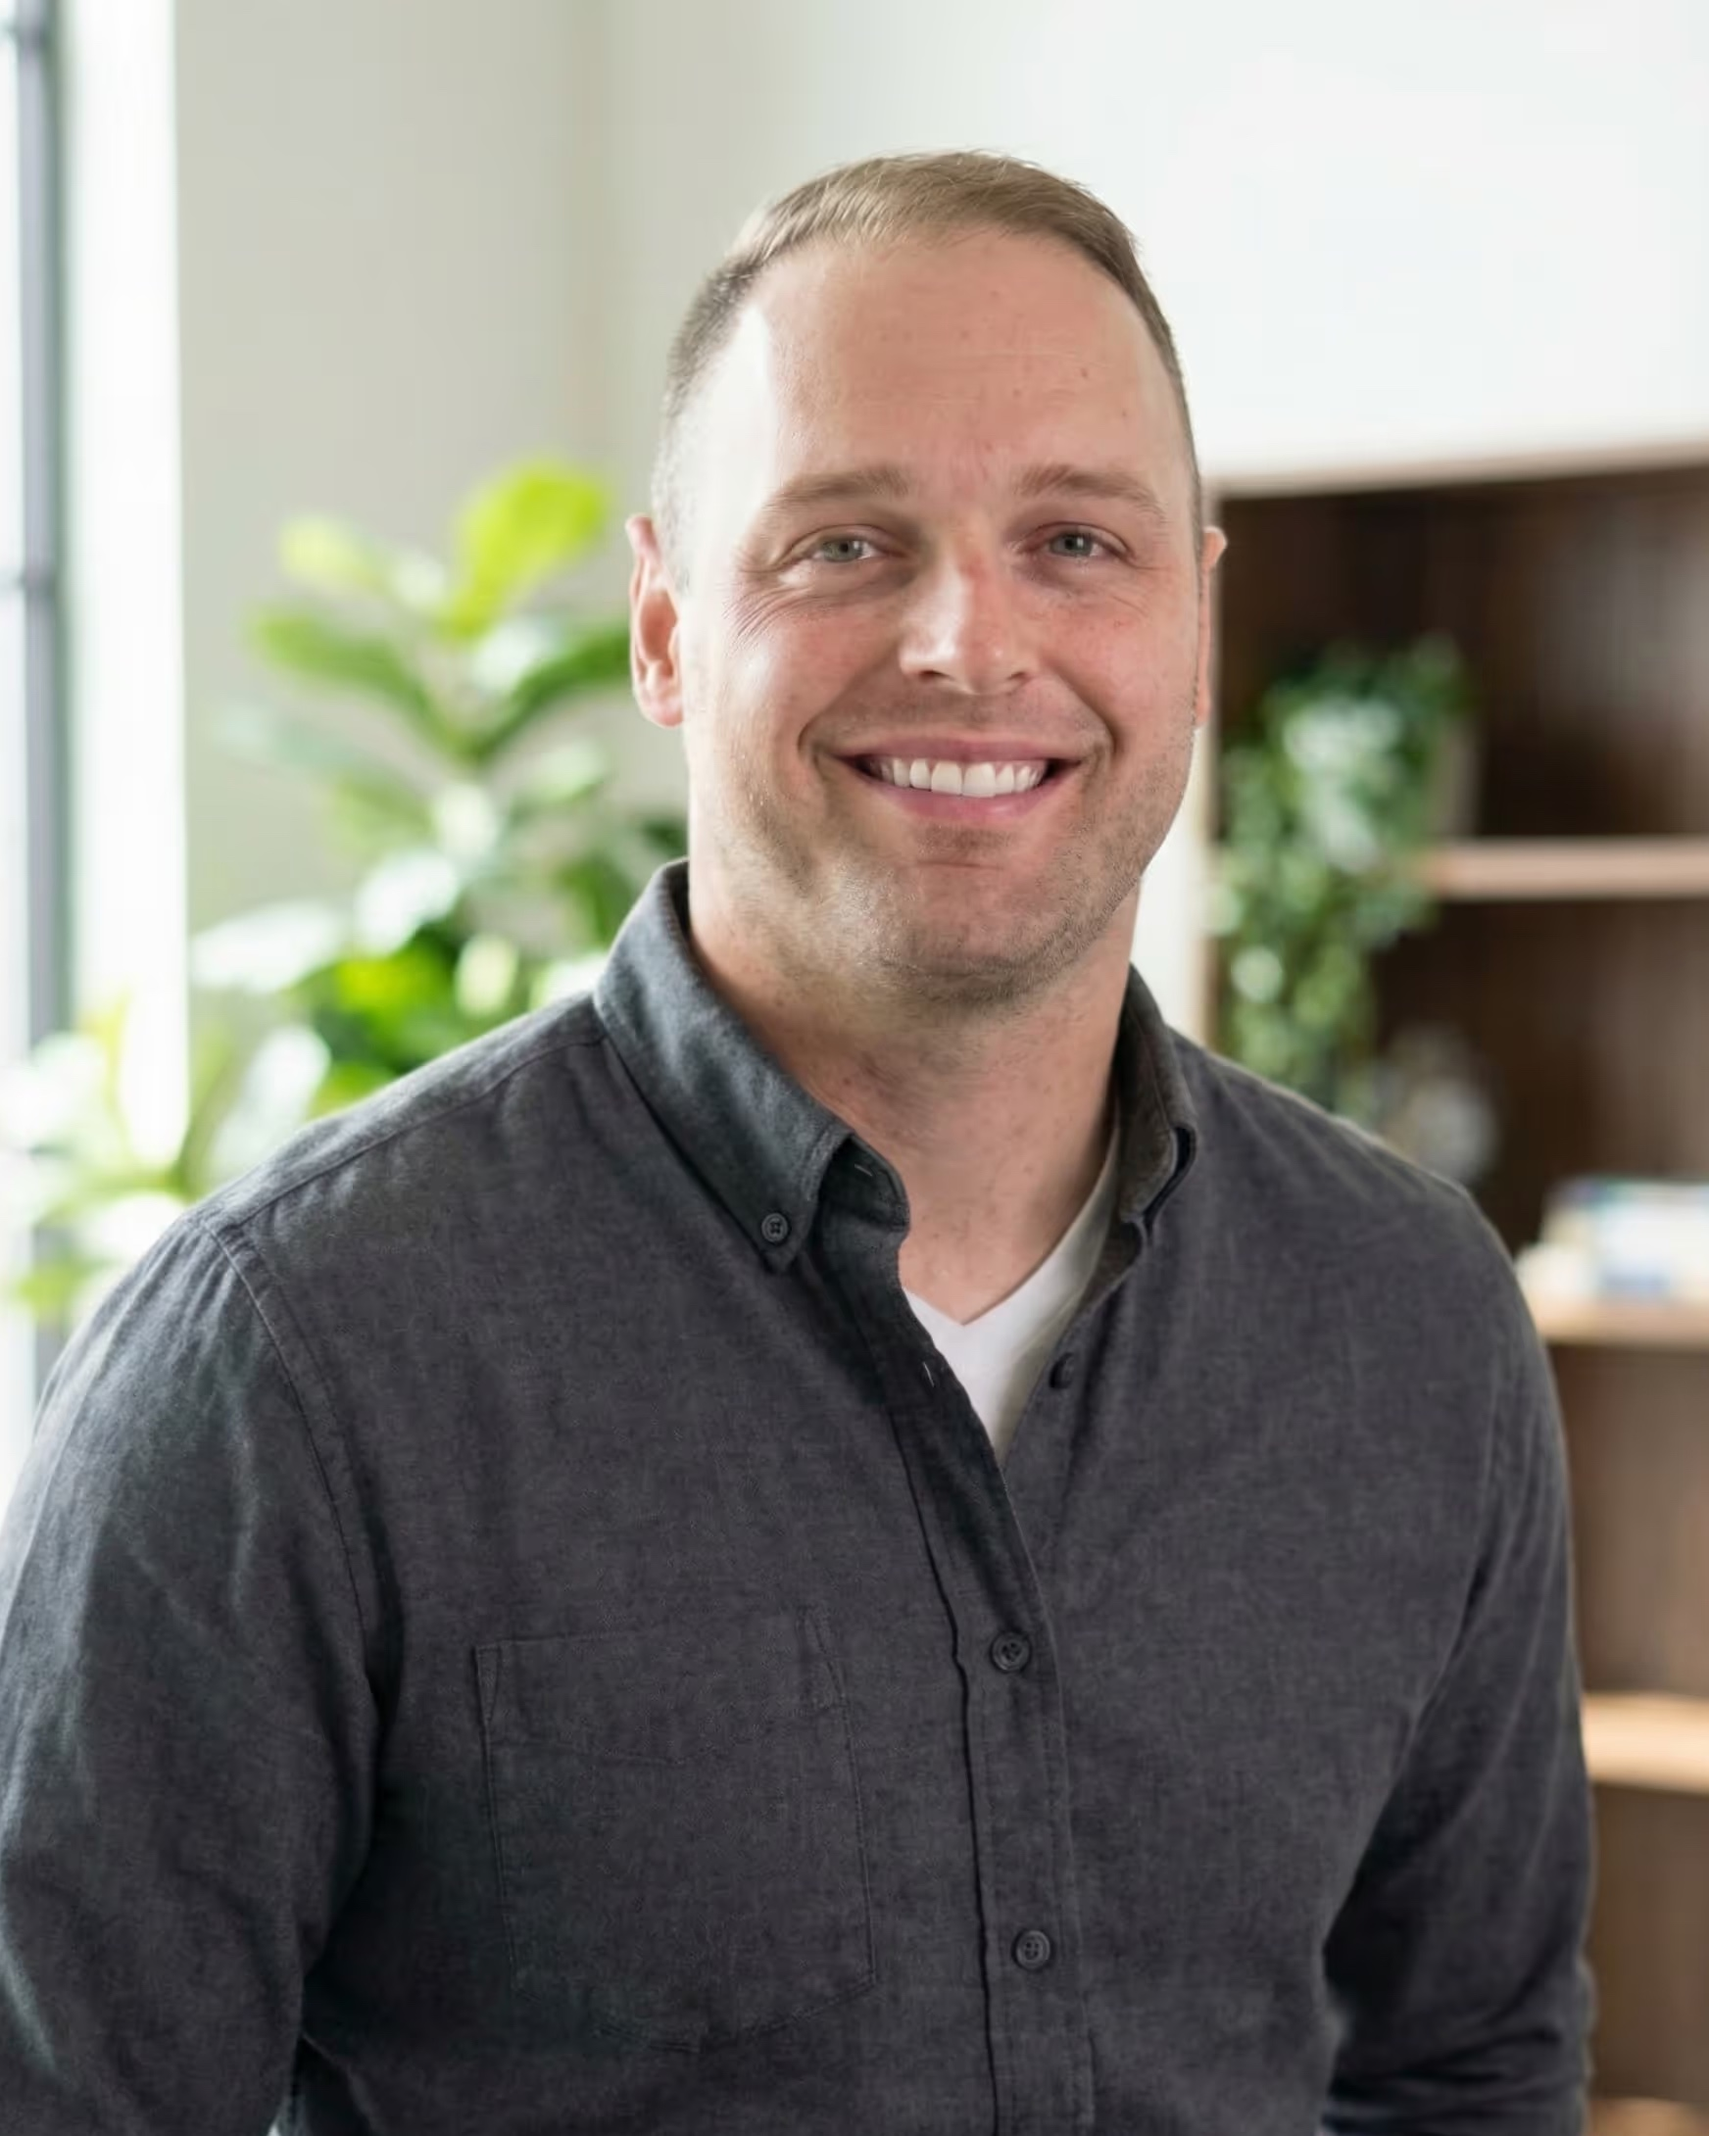
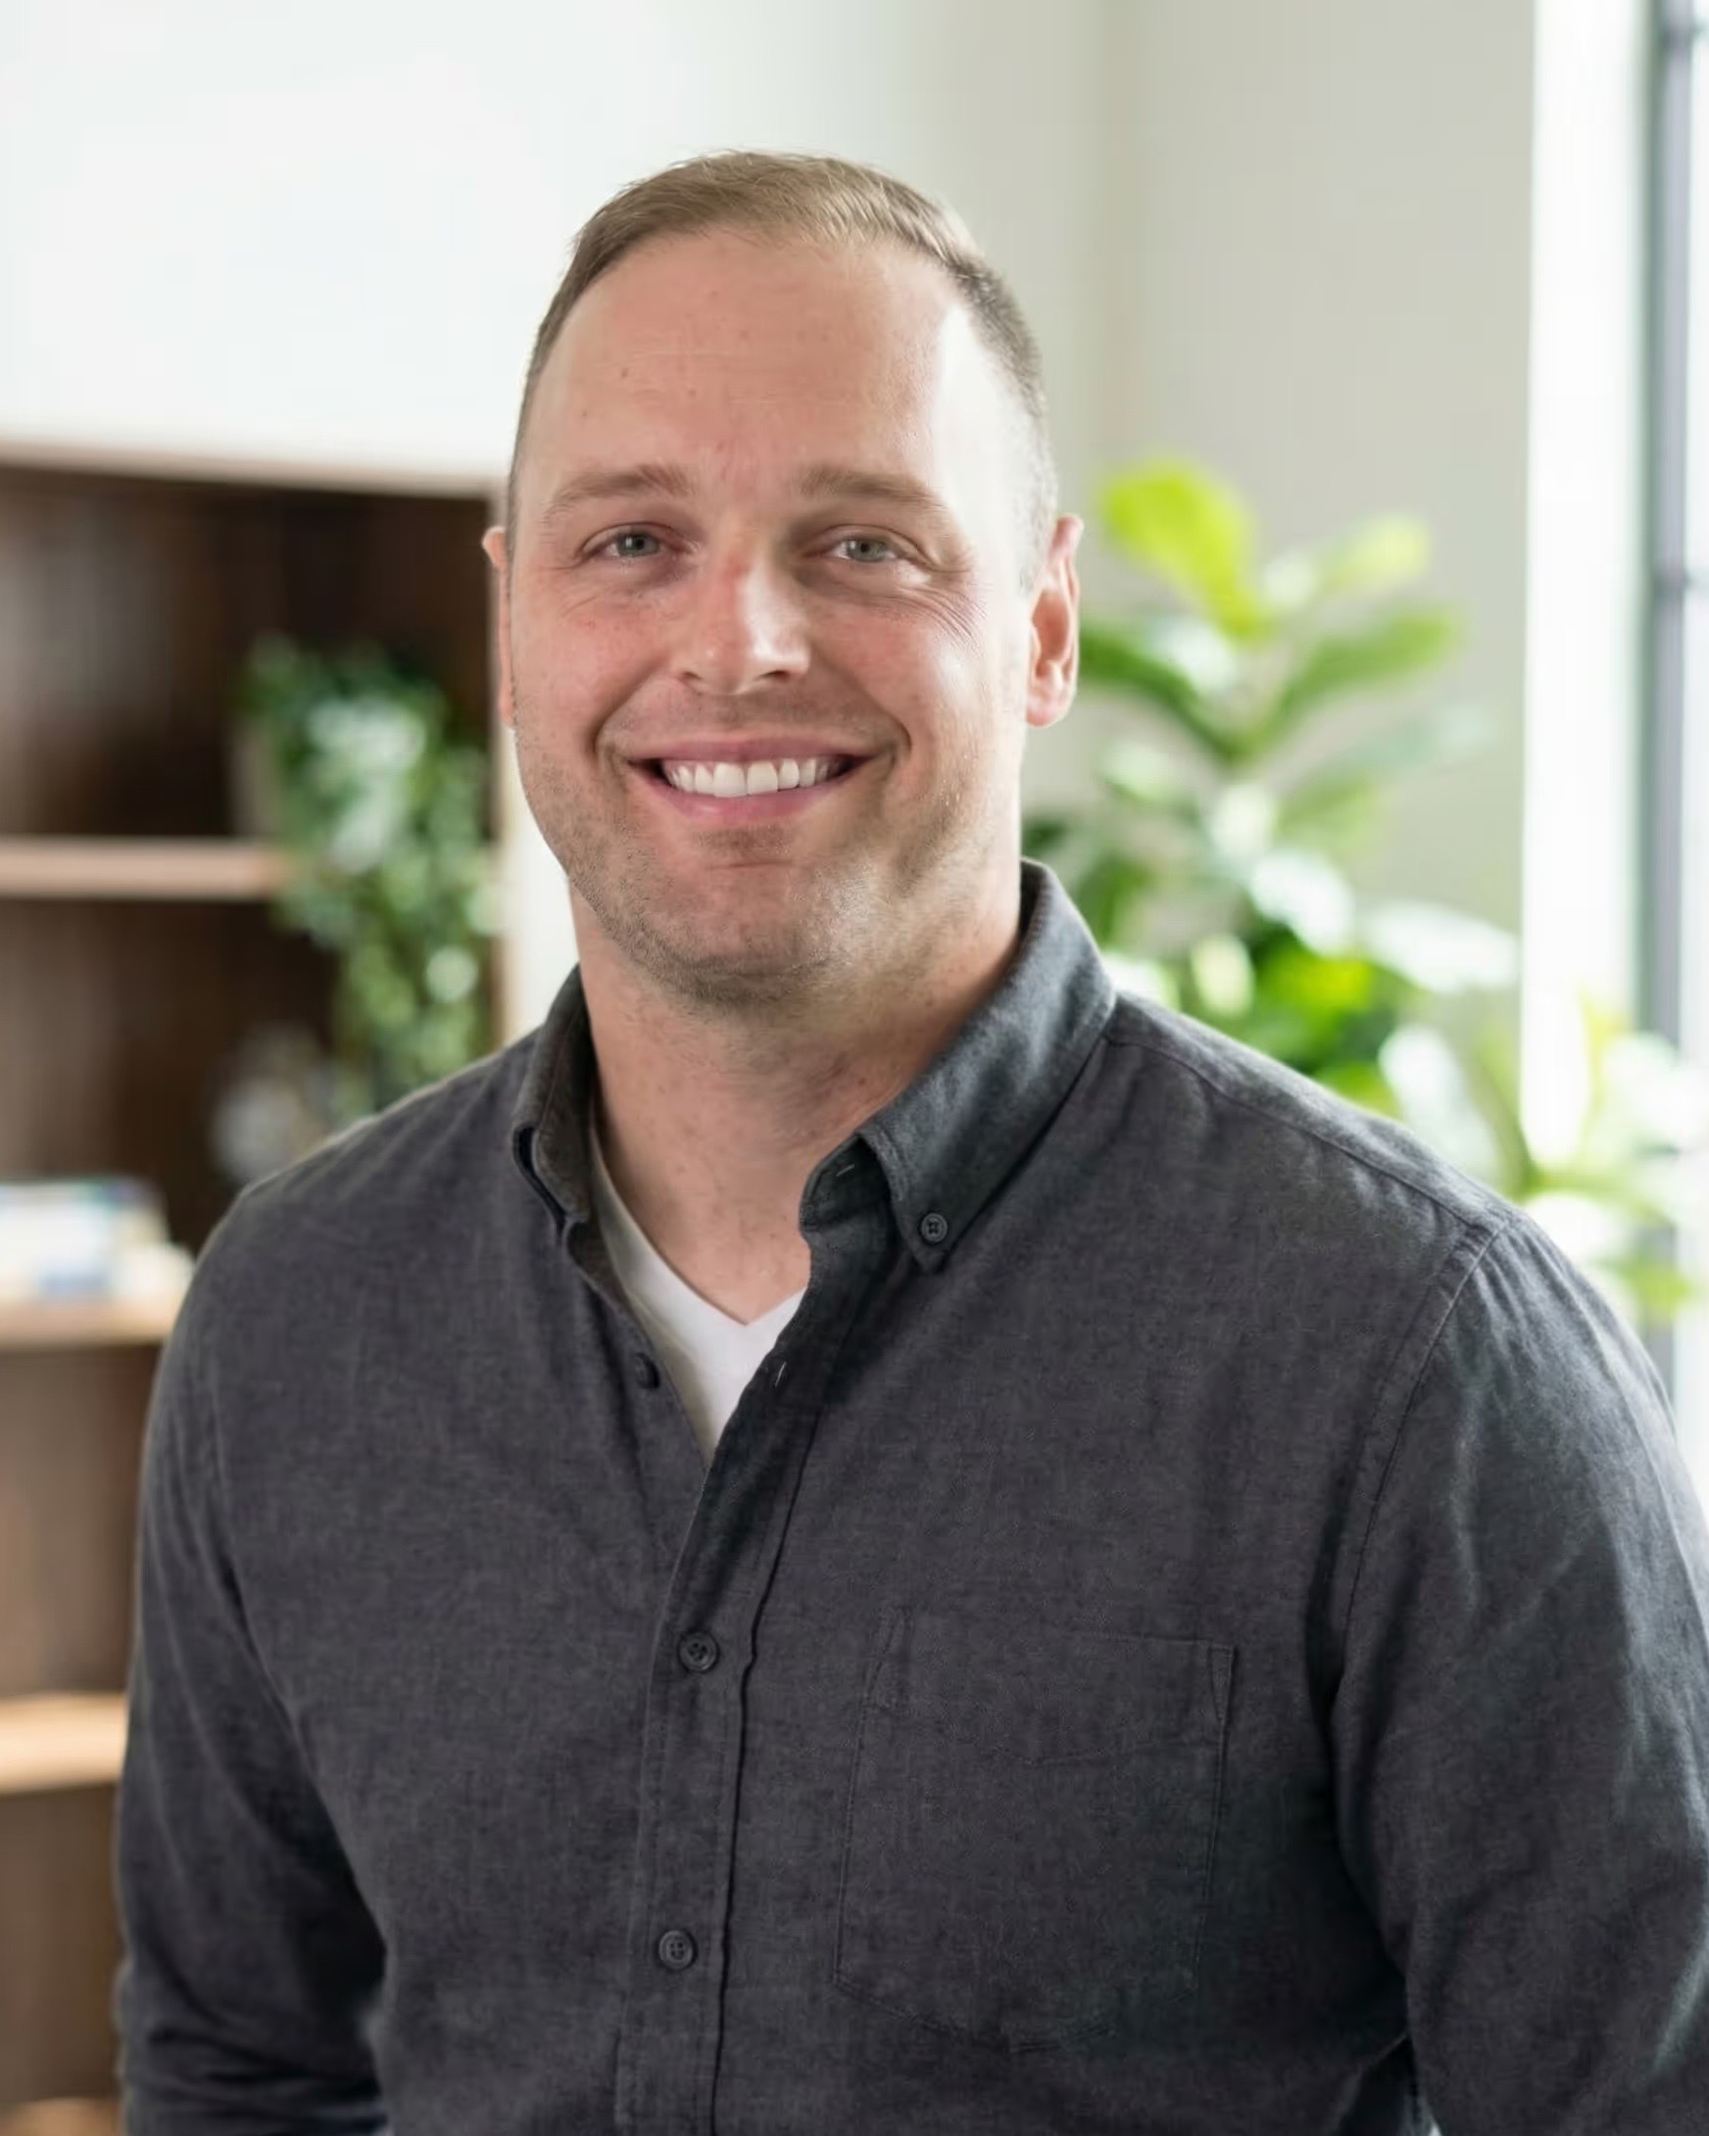
Preview fixes: face photos toward text, center About credentials on mobile

diff --git a/src/app/page.tsx b/src/app/page.tsx
@@ -701,8 +701,11 @@ export default function Home() {
 
             {/* Photo: portrait at the image's own ratio, capped so it never
                 outweighs the copy (300px centred on mobile, 360px from lg).
-                The caption shares the cap so it reads as the photo's credit. */}
-            <div className="mx-auto w-full max-w-[300px] lg:mx-0 lg:max-w-[360px]">
+                The caption shares the cap so it reads as the photo's credit.
+                From lg the photo moves to the LEFT column, pushed to its right
+                edge, so it faces the text. Not mirrored: the gear carries
+                lettering that would read backwards. Stacked order unchanged. */}
+            <div className="mx-auto w-full max-w-[300px] lg:order-first lg:mr-0 lg:max-w-[360px]">
               <div
                 className="relative w-full overflow-hidden rounded-md border border-border"
                 style={{ aspectRatio: "1038/1266" }}

diff --git a/src/app/about/page.tsx b/src/app/about/page.tsx
@@ -128,7 +128,7 @@ export default function AboutPage() {
             {CREDENTIALS.map((c) => (
               <div
                 key={c.label}
-                className="flex flex-col-reverse gap-1 py-6 md:px-8 md:py-8 md:first:pl-0 md:last:pr-0"
+                className="flex flex-col-reverse gap-1 py-6 text-center md:px-8 md:py-8 md:text-left md:first:pl-0 md:last:pr-0"
               >
                 <dt className="text-base text-text-muted">{c.label}</dt>
                 <dd className="font-display text-4xl font-bold leading-none text-text-primary lg:text-5xl">
